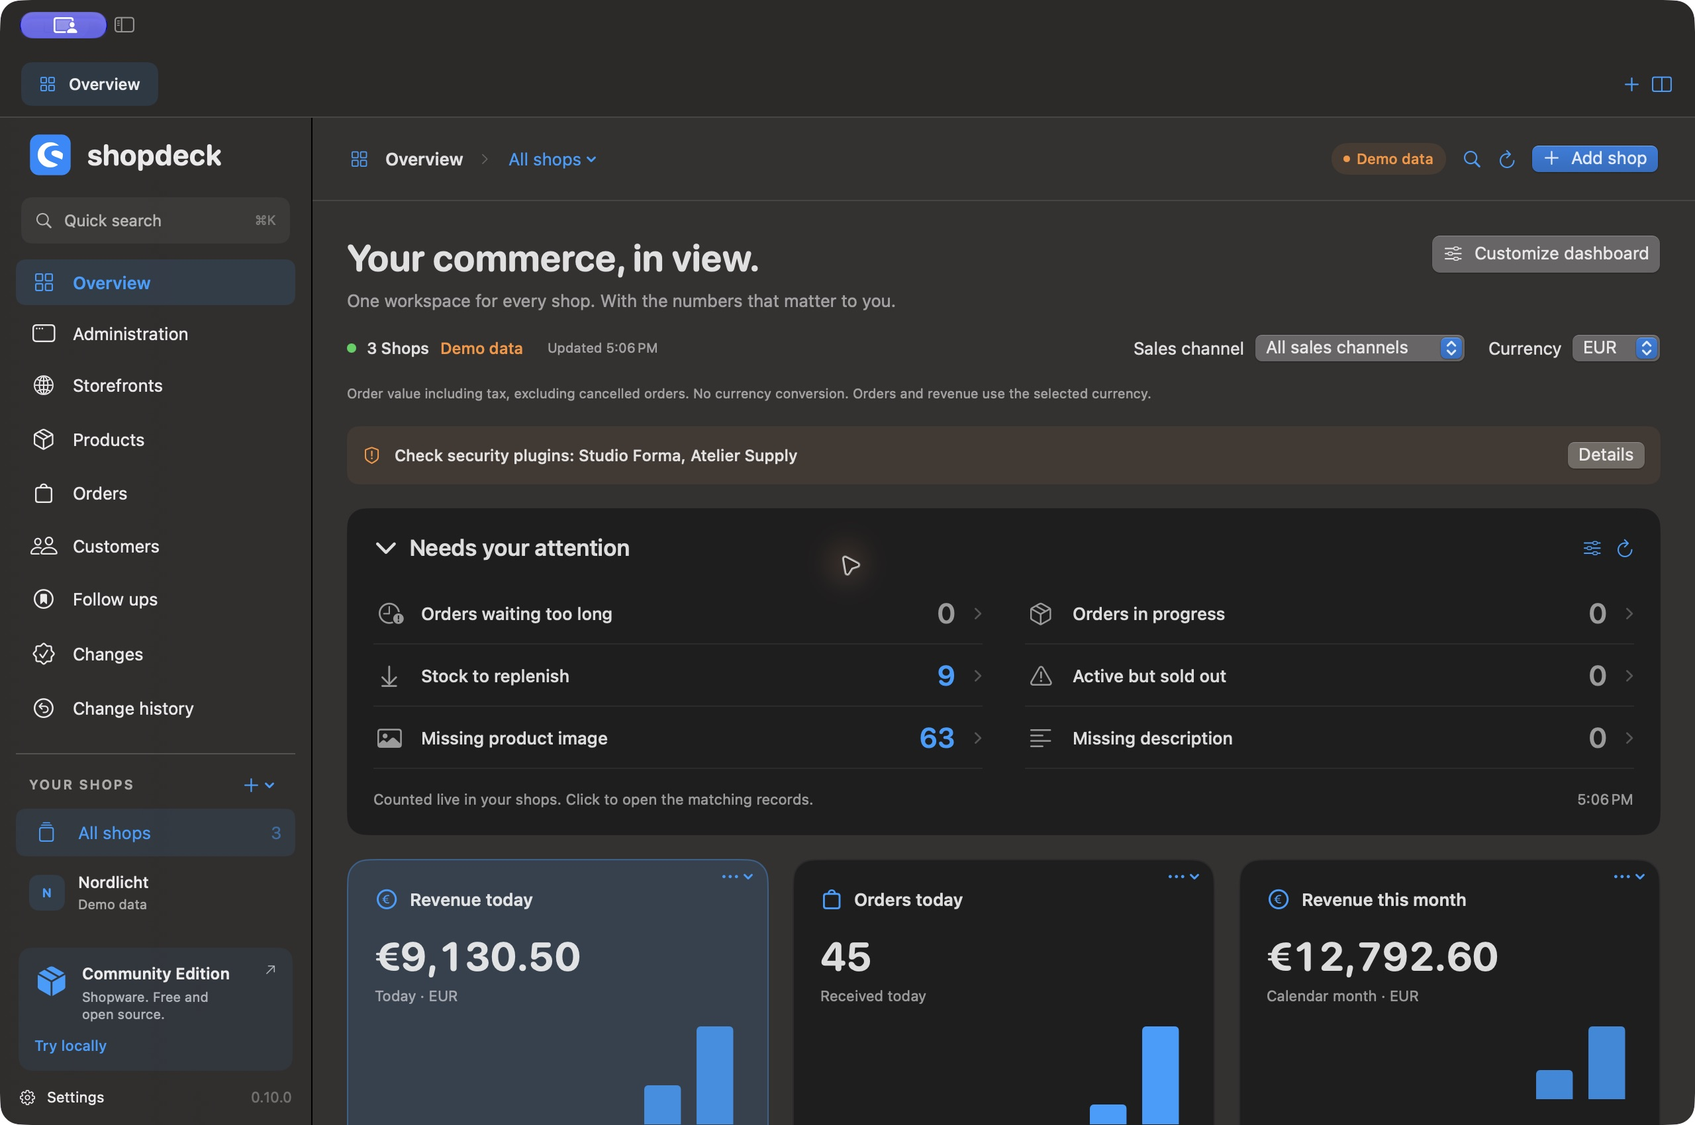
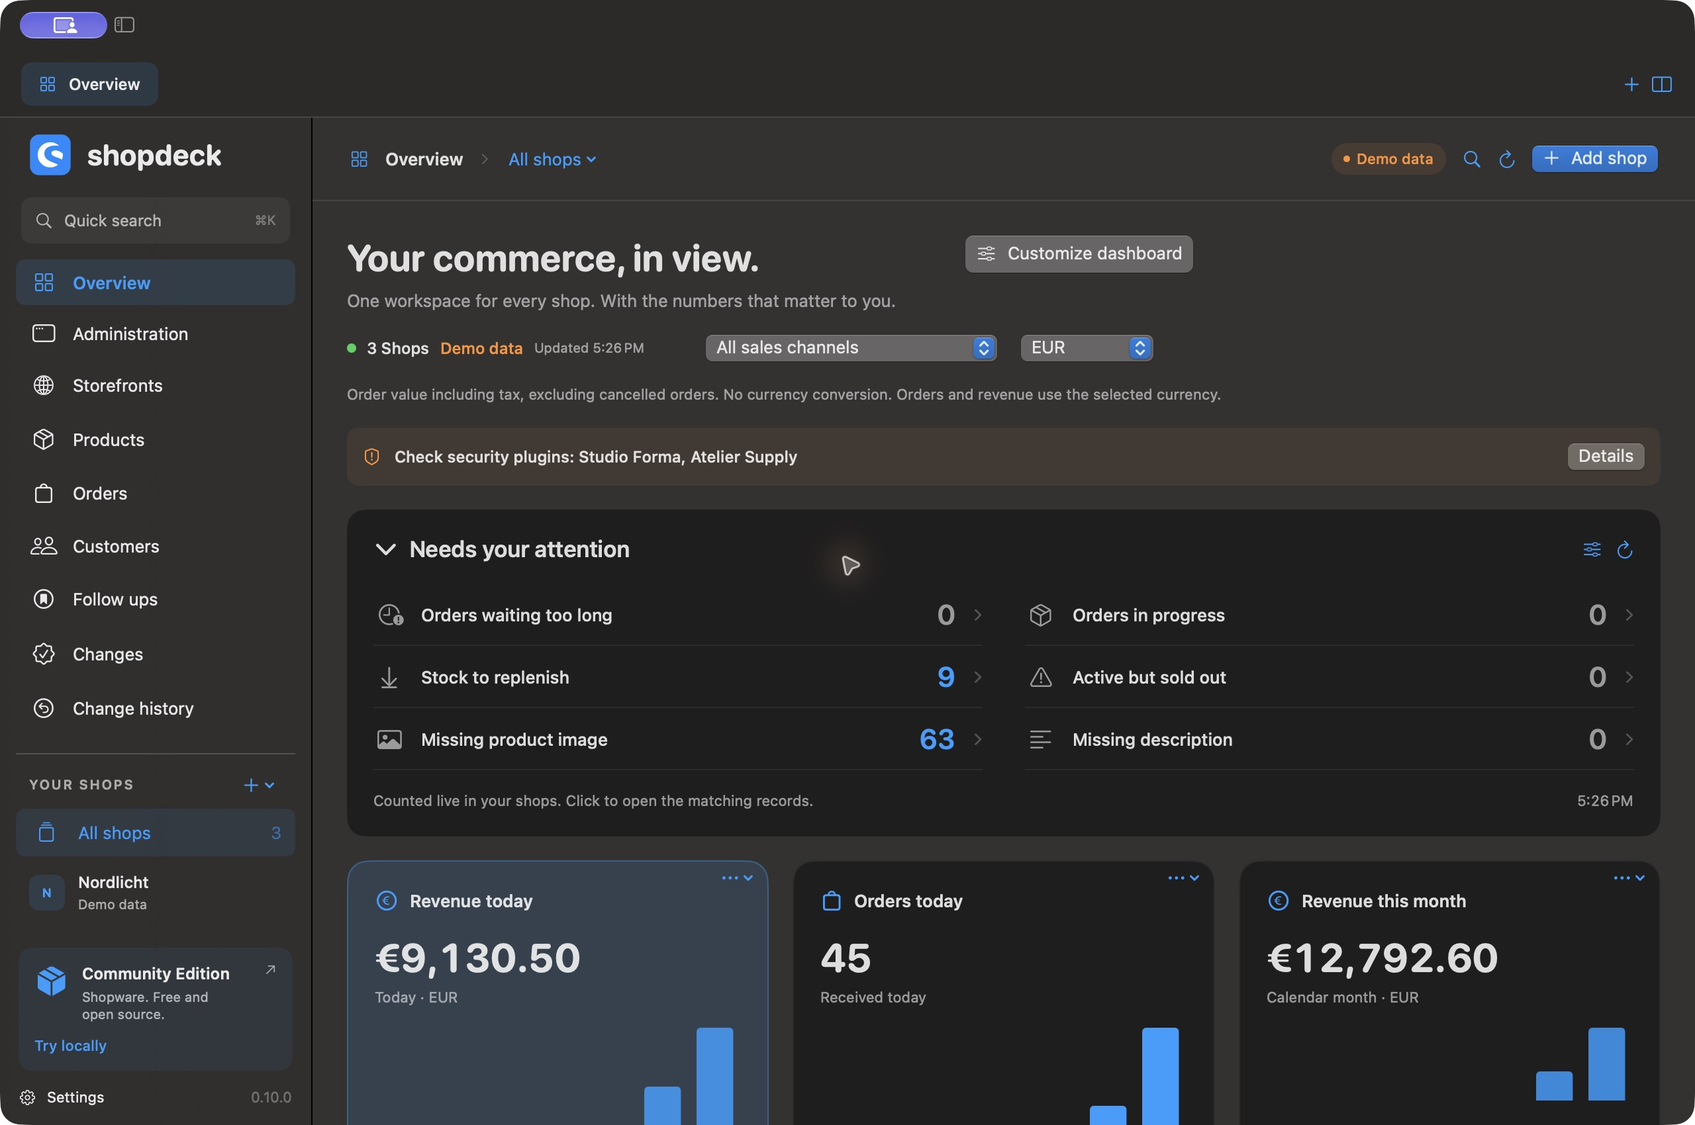
fix: keep titles and filters usable in split workspaces

diff --git a/Sources/Shopdeck/Views/RecordsView.swift b/Sources/Shopdeck/Views/RecordsView.swift
@@ -17,17 +17,10 @@ struct RecordsView: View {
     @LocalState<[KeyPathComparator<ShopRecord>]> private var sortOrder = [KeyPathComparator(\ShopRecord.sortTitle)]
     var body: some View {
         VStack(alignment: .leading, spacing: 20) {
-            HStack(alignment: .top) {
-                PageTitle(title: model.currentSavedView?.name ?? model.destination.title, subtitle: T("Shopübergreifend suchen. Direkt weiterarbeiten."))
-                Spacer()
-                Menu { Button(T("Standardansicht")) { model.query="";model.activeFilters=[];model.lowStockOnly=false;model.statusFilter="all";model.listShopIDs=nil;model.listChannelKey=nil;model.listCurrency=nil;model.recordSort=RecordSort.defaults(model.destination.entity) }; ForEach(model.workbench.savedViews.filter { $0.destination == model.destination.rawValue }) { preset in Button(preset.name) { model.openSavedView(preset) } }; Divider(); Menu(T("Ansicht entfernen")) { ForEach(model.workbench.savedViews.filter { $0.destination == model.destination.rawValue }) { preset in Button(preset.name) { model.removeSavedView(preset) } } } } label: { Label(T("Ansichten"),systemImage:"rectangle.stack") }
-                Button { savingView.toggle() } label: { Label(T("Ansicht speichern"), systemImage: "bookmark") }
-                Button { configuring = true } label: { Label(T("Liste anpassen"), systemImage: "slider.horizontal.3") }
-                Menu {
-                    Button(T("Angezeigte Seite exportieren")) { exportCSV(all: false) }
-                    Button(T("Gefilterte Treffer exportieren") + " · " + T("maximal") + " \(maximumRecords)") { exportCSV(all: true) }
-                } label: { Label(T("CSV exportieren"), systemImage: "square.and.arrow.up") }.disabled(model.records.isEmpty || exporting || model.isLoading)
-            }
+            ViewThatFits(in: .horizontal) {
+                HStack(alignment: .top, spacing: 20) { recordHeading.fixedSize(); Spacer(minLength: 12); listActions.fixedSize() }.fixedSize(horizontal: true, vertical: false)
+                VStack(alignment: .leading, spacing: 12) { recordHeading; listActions.labelStyle(.iconOnly).fixedSize() }.frame(maxWidth: .infinity, alignment: .leading)
+            }.frame(maxWidth: .infinity, alignment: .leading)
             if exporting {
                 HStack { ProgressView().controlSize(.small); Text(T("Export wird mit deinen Filtern und Spalten vorbereitet …")).font(.caption); Spacer(); Button(T("Abbrechen")) { exportTask?.cancel() } }.padding(12).background(Theme.blue.opacity(0.06), in: RoundedRectangle(cornerRadius: 8))
             }
@@ -40,20 +33,14 @@ struct RecordsView: View {
                     Button { bulkSelection = BulkSelection(records: selectedRecords) } label: { Label(T("Gemeinsam bearbeiten"), systemImage: "square.stack.3d.up") }.buttonStyle(.borderedProminent).disabled(selectedRecords.isEmpty || model.isLoading)
                 }.font(.system(size: 12)).padding(14).background(Theme.blue.opacity(0.08), in: RoundedRectangle(cornerRadius: 10))
             }
-            HStack {
-                HStack { Image(systemName: "magnifyingglass").foregroundStyle(.secondary); TextField(T("Suchen …"), text: $model.query).textFieldStyle(.plain).focused($searchFocused); if !model.query.isEmpty { Button { model.query = "" } label: { Image(systemName: "xmark.circle.fill") }.buttonStyle(.plain).foregroundStyle(.secondary) } }.padding(10).background(.quaternary.opacity(0.35), in: RoundedRectangle(cornerRadius: 8))
-                Menu {
-                    Button(T("Alle Shops anzeigen")) { model.selectedShopID = nil; model.listShopIDs = nil }
-                    Divider()
-                    ForEach(model.workspace.shops) { shop in
-                        Toggle(shop.name, isOn: Binding(get: { model.listShopIDs?.contains(shop.id) ?? (model.selectedShopID == nil || model.selectedShopID == shop.id) }, set: { _ in model.toggleListShop(shop.id) }))
-                    }
-                } label: { Label(model.listShopSelectionTitle, systemImage: "storefront") }.frame(width: 190)
-
-                Picker(T("Verkaufskanal"),selection:$model.listChannelKey){Text(T("Alle Verkaufskanäle")).tag(nil as String?);ForEach(model.availableChannels.filter{model.selectedShopID==nil || $0.shopID==model.selectedShopID},id:\.key){channel in Text((model.selectedShopID==nil ? (model.workspace.shops.first{$0.id==channel.shopID}?.name ?? "")+" · ":"")+channel.name).tag(Optional(channel.key))}}.frame(maxWidth:190)
-                if model.destination == .orders{Picker(T("Währung"),selection:$model.listCurrency){Text(T("Alle Währungen")).tag(nil as String?);ForEach(Array(Set(model.availableChannels.flatMap(\.currencies))).sorted(),id:\.self){Text($0).tag(Optional($0))}}.frame(width:150)}
-                Text("\(model.recordTotal) \(T("Ergebnisse"))").font(.system(size: 12)).foregroundStyle(.secondary).frame(minWidth: 100)
-            }
+            ViewThatFits(in: .horizontal) {
+                HStack(spacing: 12) { searchBox.frame(width: 230); shopSelector.frame(width: 190); channelSelector.frame(width: 180); currencySelector; resultCount }.fixedSize(horizontal: true, vertical: false)
+                VStack(alignment: .leading, spacing: 10) {
+                    HStack { searchBox; shopSelector.frame(maxWidth: 190) }
+                    HStack { channelSelector; currencySelector; Spacer(minLength: 0) }
+                    resultCount
+                }
+            }.frame(maxWidth: .infinity, alignment: .leading)
             if !quickFilters.isEmpty {
                 ScrollView(.horizontal) { HStack { ForEach(quickFilters) { filter in Toggle(filter.name, isOn: Binding(get: { model.activeFilters.contains { $0.id == filter.id } }, set: { enabled in if enabled { model.activeFilters.append(filter) } else { model.activeFilters.removeAll { $0.id == filter.id } } })).toggleStyle(.button) }; if !model.activeFilters.isEmpty { Button(T("Filter zurücksetzen")) { model.activeFilters = []; model.lowStockOnly = false; model.statusFilter = "all" } } } }
             }
@@ -90,6 +77,51 @@ struct RecordsView: View {
         .sheet(isPresented: $configuring) { ListConfigurationView(model: model, entity: model.destination.entity) }
         .background(Button("") { searchFocused = true }.keyboardShortcut("f").hidden())
     }
+    private var recordHeading: some View { PageTitle(title: model.currentSavedView?.name ?? model.destination.title, subtitle: T("Shopübergreifend suchen. Direkt weiterarbeiten.")) }
+    private var listActions: some View {
+        HStack(spacing: 10) {
+                Menu { Button(T("Standardansicht")) { model.query="";model.activeFilters=[];model.lowStockOnly=false;model.statusFilter="all";model.listShopIDs=nil;model.listChannelKey=nil;model.listCurrency=nil;model.recordSort=RecordSort.defaults(model.destination.entity) }; ForEach(model.workbench.savedViews.filter { $0.destination == model.destination.rawValue }) { preset in Button(preset.name) { model.openSavedView(preset) } }; Divider(); Menu(T("Ansicht entfernen")) { ForEach(model.workbench.savedViews.filter { $0.destination == model.destination.rawValue }) { preset in Button(preset.name) { model.removeSavedView(preset) } } } } label: { Label(T("Ansichten"),systemImage:"rectangle.stack") }
+                Button { savingView.toggle() } label: { Label(T("Ansicht speichern"), systemImage: "bookmark") }
+                Button { configuring = true } label: { Label(T("Liste anpassen"), systemImage: "slider.horizontal.3") }
+                Menu {
+                    Button(T("Angezeigte Seite exportieren")) { exportCSV(all: false) }
+                    Button(T("Gefilterte Treffer exportieren") + " · " + T("maximal") + " \(maximumRecords)") { exportCSV(all: true) }
+                } label: { Label(T("CSV exportieren"), systemImage: "square.and.arrow.up") }.disabled(model.records.isEmpty || exporting || model.isLoading)
+        }
+    }
+    private var searchBox: some View {
+        HStack {
+            Image(systemName: "magnifyingglass").foregroundStyle(.secondary)
+            TextField(T("Suchen …"), text: $model.query).textFieldStyle(.plain).focused($searchFocused)
+            if !model.query.isEmpty { Button { model.query = "" } label: { Image(systemName: "xmark.circle.fill") }.buttonStyle(.plain).foregroundStyle(.secondary) }
+        }.padding(10).background(.quaternary.opacity(0.35), in: RoundedRectangle(cornerRadius: 8))
+    }
+    private var shopSelector: some View {
+        Menu {
+            Button(T("Alle Shops anzeigen")) { model.selectedShopID = nil; model.listShopIDs = nil }
+            Divider()
+            ForEach(model.workspace.shops) { shop in
+                Toggle(shop.name, isOn: Binding(get: { model.listShopIDs?.contains(shop.id) ?? (model.selectedShopID == nil || model.selectedShopID == shop.id) }, set: { _ in model.toggleListShop(shop.id) }))
+            }
+        } label: { Label(model.listShopSelectionTitle, systemImage: "storefront").lineLimit(1) }.help(T("Shop"))
+    }
+    private var channelSelector: some View {
+        Picker(T("Verkaufskanal"), selection: $model.listChannelKey) {
+            Text(T("Alle Verkaufskanäle")).tag(nil as String?)
+            ForEach(model.availableChannels.filter { (model.selectedShopID == nil || $0.shopID == model.selectedShopID) && (model.listShopIDs?.contains($0.shopID) ?? true) }, id: \.key) { channel in
+                Text((model.selectedShopID == nil ? (model.workspace.shops.first { $0.id == channel.shopID }?.name ?? "") + " · " : "") + channel.name).tag(Optional(channel.key))
+            }
+        }.labelsHidden().help(T("Verkaufskanal")).accessibilityLabel(T("Verkaufskanal"))
+    }
+    @ViewBuilder private var currencySelector: some View {
+        if model.destination == .orders {
+            Picker(T("Währung"), selection: $model.listCurrency) {
+                Text(T("Alle Währungen")).tag(nil as String?)
+                ForEach(Array(Set(model.availableChannels.flatMap(\.currencies))).sorted(), id: \.self) { Text($0).tag(Optional($0)) }
+            }.labelsHidden().frame(width: 130).help(T("Währung")).accessibilityLabel(T("Währung"))
+        }
+    }
+    private var resultCount: some View { Text("\(model.recordTotal) " + T("Ergebnisse")).font(.system(size: 12)).foregroundStyle(.secondary).fixedSize() }
     private var quickFilters:[RecordFilter] {model.listConfiguration.filters + model.activeFilters.filter {active in !model.listConfiguration.filters.contains{$0.id==active.id}}}
     private var selectedRecords: [ShopRecord] { model.records.filter { selection.contains($0.id) } }
     private var dataTable: some View {

diff --git a/Sources/Shopdeck/Views/DashboardView.swift b/Sources/Shopdeck/Views/DashboardView.swift
@@ -19,23 +19,17 @@ struct DashboardView: View {
     var body: some View {
         ScrollView {
             VStack(alignment: .leading, spacing: 18) {
-                HStack(alignment: .top) {
-                    VStack(alignment: .leading, spacing: 8) { Text(T("Alles im Blick. Dein Commerce.")).font(.system(size: 28, weight: .bold, design: .rounded)); Text(T("Ein Arbeitsplatz für alle Shops. Mit den Zahlen, die für dich zählen.")).font(.system(size: 13)).foregroundStyle(.secondary) }
-                    Spacer()
-                    Button { configuring = true } label: { Label(T("Dashboard anpassen"), systemImage: "slider.horizontal.3") }.controlSize(.large)
-                }
-                HStack(spacing: 18) {
-                    HStack(spacing: 8) { Circle().fill(analytics.failures.isEmpty ? .green : .orange).frame(width: 7,height: 7); Text("\(model.dashboardShops.count) " + (model.dashboardShops.count == 1 ? T("Shop") : T("Shops"))); if model.dashboardShops.allSatisfy(\.isDemo) { Text(T("Demodaten")).foregroundStyle(.orange) } }.font(.system(size: 12, weight: .medium))
-                    if model.loadingAnalytics { ProgressView().controlSize(.small); Text(T("Statistiken werden geladen …")).font(.caption).foregroundStyle(.secondary) }
-                    else if let date = analytics.loadedAt { Text(T("Aktualisiert") + " " + localizedDate(date,date:.omitted,time:.shortened)).font(.caption).foregroundStyle(.secondary) }
-                    Spacer()
-                    if model.scopedShops.contains(where: \.isDemo) && model.scopedShops.contains(where:{!$0.isDemo}) { Toggle(T("Demoprofile einbeziehen"),isOn:$includeDemo).toggleStyle(.checkbox).font(.caption) }
-                    Picker(T("Verkaufskanal"),selection:$model.dashboardChannelKey){Text(T("Alle Verkaufskanäle")).tag(nil as String?);ForEach(model.availableChannels.filter{channel in model.dashboardShops.contains{$0.id==channel.shopID}},id:\.key){channel in Text((model.workspace.shops.first{$0.id==channel.shopID}?.name ?? "")+" · "+channel.name).tag(Optional(channel.key))}}.frame(maxWidth:250)
-                    Picker(T("Währung"), selection: $model.dashboardCurrency) { ForEach(Array(Set(analytics.currencies+[currency])).sorted(), id: \.self) { Text($0).tag($0) } }.frame(width: 130)
-                }
+                ViewThatFits(in: .horizontal) {
+                    HStack(alignment: .top, spacing: 20) { dashboardHeading.fixedSize(); Spacer(minLength: 12); customizeButton.fixedSize() }.fixedSize(horizontal: true, vertical: false)
+                    VStack(alignment: .leading, spacing: 12) { dashboardHeading; customizeButton }.frame(maxWidth: .infinity, alignment: .leading)
+                }.frame(maxWidth: .infinity, alignment: .leading)
+                ViewThatFits(in: .horizontal) {
+                    HStack(spacing: 18) { dashboardStatus.fixedSize(); Spacer(minLength: 10); demoToggle; dashboardChannel.frame(width: 220); dashboardCurrencyPicker }.fixedSize(horizontal: true, vertical: false)
+                    VStack(alignment: .leading, spacing: 10) { dashboardStatus; demoToggle; HStack { dashboardChannel; dashboardCurrencyPicker } }.frame(maxWidth: .infinity, alignment: .leading)
+                }.frame(maxWidth: .infinity, alignment: .leading)
+                Text(T("Bestellumsatz inklusive Steuern, ohne stornierte Bestellungen. Keine Währungsumrechnung. Bestellungen und Umsatz nach gewählter Währung.")).font(.system(size: 11)).foregroundStyle(.secondary)
                 if !analytics.failures.isEmpty { Text(analytics.failures.joined(separator: "\n")).font(.caption).foregroundStyle(.orange) }
                 if !analytics.truncatedShops.isEmpty { Text(T("Unvollständige Statistik: mehr als 10.000 Bestellungen in 30 Tagen.") + " " + analytics.truncatedShops.joined(separator: ", ")).font(.caption).foregroundStyle(.orange) }
-                Text(T("Bestellumsatz inklusive Steuern, ohne stornierte Bestellungen. Keine Währungsumrechnung. Bestellungen und Umsatz nach gewählter Währung.")).font(.caption).foregroundStyle(.secondary)
                 SecurityStatusView(model:model,compact:true)
                 MerchantFocusView(model: model)
                 LazyVGrid(columns: [GridItem(.adaptive(minimum: 285), spacing: 18)], alignment: .leading, spacing: 18) {
@@ -56,6 +50,31 @@ struct DashboardView: View {
         .onChange(of:includeDemo) {_,_ in Task{await model.loadAnalytics()}}
         .sheet(item:$editingTile){DashboardTileEditor(model:model,tile:$0)}
         .sheet(isPresented: $configuring) { DashboardConfigurationView(model: model) }
+    }
+    private var dashboardHeading: some View {
+        VStack(alignment: .leading, spacing: 8) { Text(T("Alles im Blick. Dein Commerce.")).font(.system(size: 28, weight: .bold, design: .rounded)); Text(T("Ein Arbeitsplatz für alle Shops. Mit den Zahlen, die für dich zählen.")).font(.system(size: 13)).foregroundStyle(.secondary) }
+    }
+    private var customizeButton: some View { Button { configuring = true } label: { Label(T("Dashboard anpassen"), systemImage: "slider.horizontal.3") }.controlSize(.large) }
+    private var dashboardStatus: some View {
+        HStack(spacing: 8) {
+            Circle().fill(analytics.failures.isEmpty ? .green : .orange).frame(width: 7, height: 7)
+            Text("\(model.dashboardShops.count) " + (model.dashboardShops.count == 1 ? T("Shop") : T("Shops"))).lineLimit(1).fixedSize()
+            if model.dashboardShops.allSatisfy(\.isDemo) { Text(T("Demodaten")).foregroundStyle(.orange).fixedSize() }
+            if model.loadingAnalytics { ProgressView().controlSize(.small) }
+            else if let date = analytics.loadedAt { Text(T("Aktualisiert") + " " + localizedDate(date, date: .omitted, time: .shortened)).font(.caption).foregroundStyle(.secondary).lineLimit(1) }
+        }.font(.system(size: 12, weight: .medium))
+    }
+    @ViewBuilder private var demoToggle: some View {
+        if model.scopedShops.contains(where: \.isDemo) && model.scopedShops.contains(where: { !$0.isDemo }) { Toggle(T("Demoprofile einbeziehen"), isOn: $includeDemo).toggleStyle(.checkbox).font(.caption) }
+    }
+    private var dashboardChannel: some View {
+        Picker(T("Verkaufskanal"), selection: $model.dashboardChannelKey) {
+            Text(T("Alle Verkaufskanäle")).tag(nil as String?)
+            ForEach(model.availableChannels.filter { channel in model.dashboardShops.contains { $0.id == channel.shopID } }, id: \.key) { channel in Text((model.workspace.shops.first { $0.id == channel.shopID }?.name ?? "") + " · " + channel.name).tag(Optional(channel.key)) }
+        }.labelsHidden().help(T("Verkaufskanal")).accessibilityLabel(T("Verkaufskanal"))
+    }
+    private var dashboardCurrencyPicker: some View {
+        Picker(T("Währung"), selection: $model.dashboardCurrency) { ForEach(Array(Set(analytics.currencies + [currency])).sorted(), id: \.self) { Text($0).tag($0) } }.labelsHidden().frame(width: 100).help(T("Währung")).accessibilityLabel(T("Währung"))
     }
     @ViewBuilder func widgetView(_ widget: DashboardWidget) -> some View {
         VStack(alignment: .leading, spacing: 16) {

diff --git a/Sources/Shopdeck/Views/ContentView.swift b/Sources/Shopdeck/Views/ContentView.swift
@@ -44,7 +44,7 @@ struct ContentView: View {
         HStack(spacing: 12) {
             if model.selectedShopID != nil {Button{model.selectedShopID=nil}label:{Label(T("Alle Shops anzeigen"),systemImage:"chevron.backward")}.buttonStyle(.borderless).font(.system(size:12,weight:.medium))}
             Image(systemName: model.destination.icon).foregroundStyle(Theme.blue)
-            Text(model.destination.title).fontWeight(.semibold)
+            Text(model.destination.title).fontWeight(.semibold).lineLimit(1).layoutPriority(1)
             Image(systemName: "chevron.right").font(.system(size: 9)).foregroundStyle(.tertiary)
             Menu{Button(T("Alle Shops anzeigen")){model.selectedShopID=nil;model.listShopIDs=nil};Divider();ForEach(model.workspace.shops){shop in Button(shop.name){model.selectedShopID=shop.id}}}label:{Text(model.selectedShop?.name ?? T("Alle Shops")).lineLimit(1)}.menuStyle(.borderlessButton).fixedSize()
             Spacer()
@@ -52,7 +52,7 @@ struct ContentView: View {
             if let shop = model.selectedShop, model.destination != .admin { Button { model.openAdministration(shop) } label: { Label(T("Administration"), systemImage: "macwindow") }.buttonStyle(.bordered) }
             Button { model.showingCommandPalette = true } label: { Image(systemName: "magnifyingglass") }.buttonStyle(.borderless).help(T("Schnellsuche") + " · ⌘K")
             Button { Task { await model.refresh() } } label: { Image(systemName: "arrow.clockwise").symbolEffect(.pulse, options: .repeating, isActive: model.isRefreshing) }.buttonStyle(.borderless).help(T("Aktualisieren")).disabled(model.isRefreshing)
-            Button { model.showingAddShop = true } label: { Label(T("Shop hinzufügen"), systemImage: "plus") }.buttonStyle(.borderedProminent).controlSize(.regular)
+            Button { model.showingAddShop = true } label: { ViewThatFits(in: .horizontal) { Label(T("Shop hinzufügen"), systemImage: "plus").fixedSize(); Image(systemName: "plus") }.accessibilityLabel(T("Shop hinzufügen")) }.buttonStyle(.borderedProminent).controlSize(.regular)
         }.padding(.horizontal, 28).frame(height: 62)
     }
 }

diff --git a/Sources/Shopdeck/Support/Theme.swift b/Sources/Shopdeck/Support/Theme.swift
@@ -25,7 +25,7 @@ struct ShopIcon: View {
 struct StatusPill: View {
     let text: String
     var color: Color = .green
-    var body: some View { HStack(spacing: 5) { Circle().fill(color).frame(width: 5, height: 5); Text(text).font(.system(size: 11, weight: .medium)) }.padding(.horizontal, 9).padding(.vertical, 5).foregroundStyle(color).background(color.opacity(0.1), in: Capsule()) }
+    var body: some View { HStack(spacing: 5) { Circle().fill(color).frame(width: 5, height: 5); Text(text).font(.system(size: 11, weight: .medium)).lineLimit(1).fixedSize() }.padding(.horizontal, 9).padding(.vertical, 5).foregroundStyle(color).background(color.opacity(0.1), in: Capsule()) }
 }
 struct Panel<Content: View>: View {
     @ViewBuilder let content: Content

diff --git a/docs/changes-0.10.md b/docs/changes-0.10.md
@@ -7,6 +7,7 @@ A daily workspace that takes you from the numbers to the next action.
 - Multiple shop selection in product, order and customer lists, retained in saved views.
 - CSV export of the current page or the filtered result set, respecting configured row limits, visible columns, sorting, shop selection, sales channel and currency.
 - Additional empty and missing field filters for catalogue quality checks.
+- Adaptive titles, filters and compact actions for narrow split panes.
 - More compact dashboard layout and English, German, Dutch, Spanish, French and Italian labels for the new features.
 
 Validation: existing core suite and new merchant feature tests, read only checks of all six queries against an isolated Shopware 6.7 shop, and a UI export of 72 demo products across three shops while only the first 50 were visible. Follow up creation, completion, reopening and persisted multi shop views were checked in the native app.

diff --git a/docs/screenshots.md b/docs/screenshots.md
@@ -10,6 +10,7 @@ English interface captures from development builds, using built in demo profiles
 ![Select multiple shops in a list](screenshots/36-multiple-shop-selection.png)
 ![Export the filtered result set](screenshots/37-filtered-export.png)
 ![The merchant workspace in light appearance](screenshots/38-merchant-light.png)
+![Adaptive dashboard and product list side by side](screenshots/39-adaptive-split-workspace.png)
 
 ## Your workspace
 
